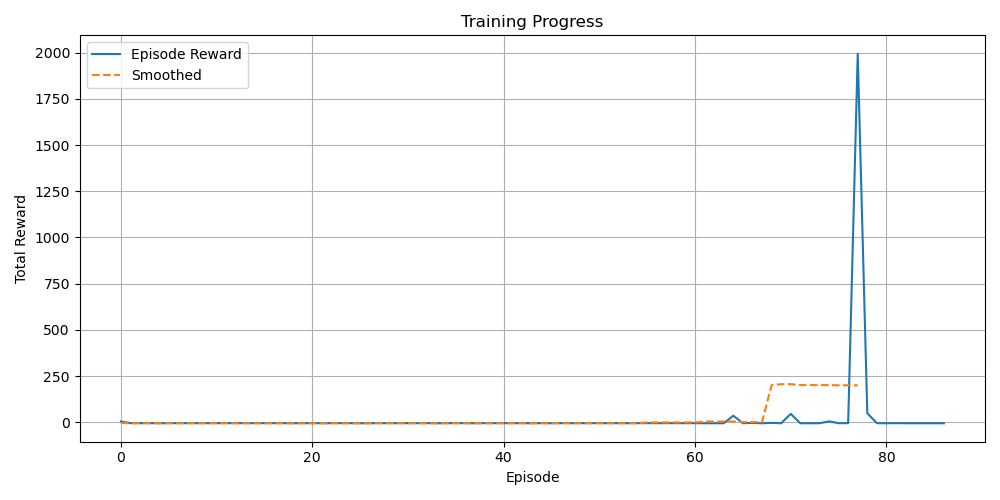
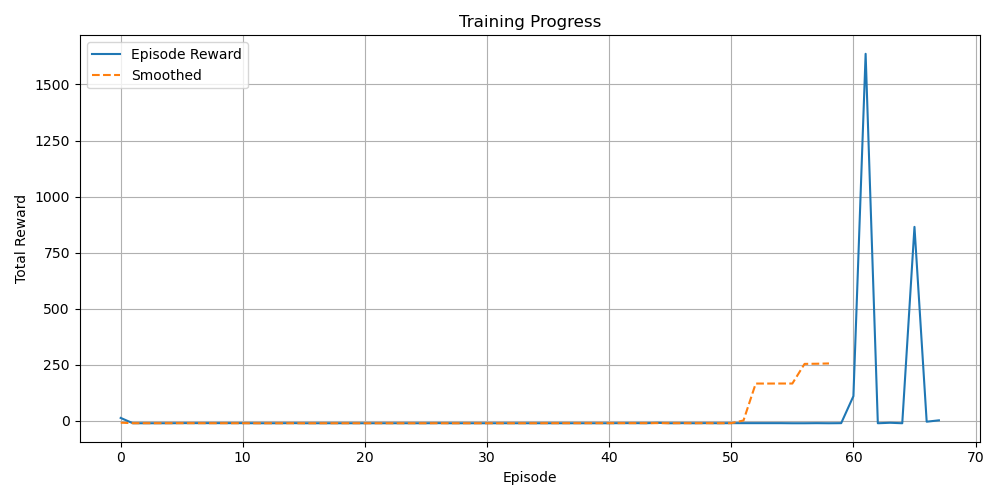
added ball following to reinforcement, obstacle and ball can be trained seperately

diff --git a/zmqRemoteApi/python/reinforcement.py b/zmqRemoteApi/python/reinforcement.py
@@ -1,6 +1,7 @@
 import robotica
 import numpy as np
 import time
+import cv2
 import random
 import torch
 import torch.nn as nn
@@ -40,15 +41,49 @@ class ReplayBuffer:
 
 # --- Action mapping ---
 def action_to_speed(action):
-    if action == 0:  # move forward
+    if action == 0:  # forward
         return 1.0, 1.0
-    elif action == 1:  # turn left
+    elif action == 1:  # slight left
+        return 0.5, 1.0
+    elif action == 2:  # slight right
+        return 1.0, 0.5
+    elif action == 3:  # hard left
         return -1.0, 1.0
-    elif action == 2:  # turn right
+    elif action == 4:  # hard right
         return 1.0, -1.0
 
+def detect_ball(img):
+    hsv = cv2.cvtColor(img, cv2.COLOR_BGR2HSV)
+
+    # Red color range in HSV
+    lower_red1 = np.array([0, 120, 70])
+    upper_red1 = np.array([10, 255, 255])
+    lower_red2 = np.array([170, 120, 70])
+    upper_red2 = np.array([180, 255, 255])
+
+    mask1 = cv2.inRange(hsv, lower_red1, upper_red1)
+    mask2 = cv2.inRange(hsv, lower_red2, upper_red2)
+    mask = mask1 + mask2
+
+    contours, _ = cv2.findContours(mask, cv2.RETR_TREE, cv2.CHAIN_APPROX_SIMPLE)
+
+    ball_detected = False
+    ball_x_norm = 0.0
+    ball_radius_norm = 0.0
+
+    if contours:
+        c = max(contours, key=cv2.contourArea)
+        ((x, y), radius) = cv2.minEnclosingCircle(c)
+        if radius > 5:
+            img_center_x = img.shape[1] / 2
+            ball_x_norm = (x - img_center_x) / img_center_x  # -1 to +1
+            ball_radius_norm = radius / img_center_x         # relative size
+            ball_detected = True
+
+    return ball_detected, ball_x_norm, ball_radius_norm
+
 # --- Main ---
-def main(args=None, train_mode=True):
+def main(args=None, train_mode=False, obstacle_mode=True, ball_mode=True):
     max_duration = 600  # z. B. 10 Minuten Training
     start_time = time.time()
 
@@ -56,11 +91,16 @@ def main(args=None, train_mode=True):
     current_reward = 0
 
     coppelia = robotica.Coppelia()
-    robot = robotica.P3DX(coppelia.sim, 'PioneerP3DX')
+    robot = robotica.P3DX(coppelia.sim, 'PioneerP3DX', True)
 
     # Setup DQN
-    state_dim = 8  # Assume 8 sonar sensors (Pioneer P3DX has 16 but usually you can pick 8 important ones)
-    action_dim = 3  # forward, left, right
+    state_dim = 0
+    if obstacle_mode:
+        state_dim += 8  # Assume 8 sonar sensors (Pioneer P3DX has 16 but usually you can pick 8 important ones)
+    if ball_mode:
+        state_dim += 2
+
+    action_dim = 5  # forward, left, right
 
     device = torch.device('cuda' if torch.cuda.is_available() else 'cpu')
     policy_net = DQN(state_dim, action_dim).to(device)
@@ -85,7 +125,15 @@ def main(args=None, train_mode=True):
 
     while coppelia.is_running() and (time.time() - start_time < max_duration):
         sonar = robot.get_sonar()
-        state = np.array(sonar[:8])  # take first 8 sonar sensors
+        img = robot.get_image()
+        ball_detected, ball_x_norm, ball_radius_norm = detect_ball(img)
+        state = []
+        if obstacle_mode:
+            state.extend(sonar[:8])  # add sonar readings
+        if ball_mode:
+            state.append(ball_x_norm)
+            state.append(ball_radius_norm)
+        state = np.array(state, dtype=np.float32)
         state_tensor = torch.FloatTensor(state).unsqueeze(0).to(device)
 
         # ε-greedy policy
@@ -105,24 +153,46 @@ def main(args=None, train_mode=True):
 
         # New observation
         sonar_next = robot.get_sonar()
-        next_state = np.array(sonar_next[:8])
+        img = robot.get_image()
+        ball_detected, ball_x_norm, ball_radius_norm = detect_ball(img)
+        next_state = []
+        if obstacle_mode:
+            next_state.extend(sonar_next[:8])  # add sonar readings
+        if ball_mode:
+            next_state.append(ball_x_norm)
+            next_state.append(ball_radius_norm)
+
+        next_state = np.array(next_state, dtype=np.float32)
 
         # Reward design
         front_min = min(sonar_next[3], sonar_next[4])
         done = False
-        if front_min < 0.2:
-            reward = -5  # crash penalty
-            done = True
-        elif front_min > 0.5:
-            reward = 1  # good progress
-        else:
-            reward = 0
 
-        if action == 0:  # moving forward
-            reward += 0.3  # stronger bonus for going straight
-        else:
-            reward -= 0.15  # stronger penalty for turning
+        reward = 0.0
 
+        # --- Obstacle avoidance (high priority) ---
+        if obstacle_mode:
+            if front_min < 0.1:
+                reward -= 10.0  # Large penalty for crashing
+                done = True  # End episode
+            elif front_min > 0.25:
+                reward += 1.0  # Reward for staying safe
+
+        # --- Ball tracking (high priority) ---
+        if ball_mode:
+            if not ball_detected:
+                reward -= 5.0  # Penalty for losing sight of the ball
+            else:
+                # Encourage centering
+                reward += (1.0 - abs(ball_x_norm)) * 2.0
+                # Encourage approaching
+                reward += ball_radius_norm * 1.0
+
+        # --- General movement incentives (low priority) ---
+        if action == 0:
+            reward += 0.3  # small bonus for moving forward
+        else:
+            reward -= 0.15  # small penalty for turning
         print(reward)
         current_reward += reward
 
@@ -185,5 +255,5 @@ def main(args=None, train_mode=True):
         plt.show()
 
 if __name__ == '__main__':
-    main(train_mode=False)
+    main(train_mode=True, obstacle_mode=True, ball_mode=False)
 
